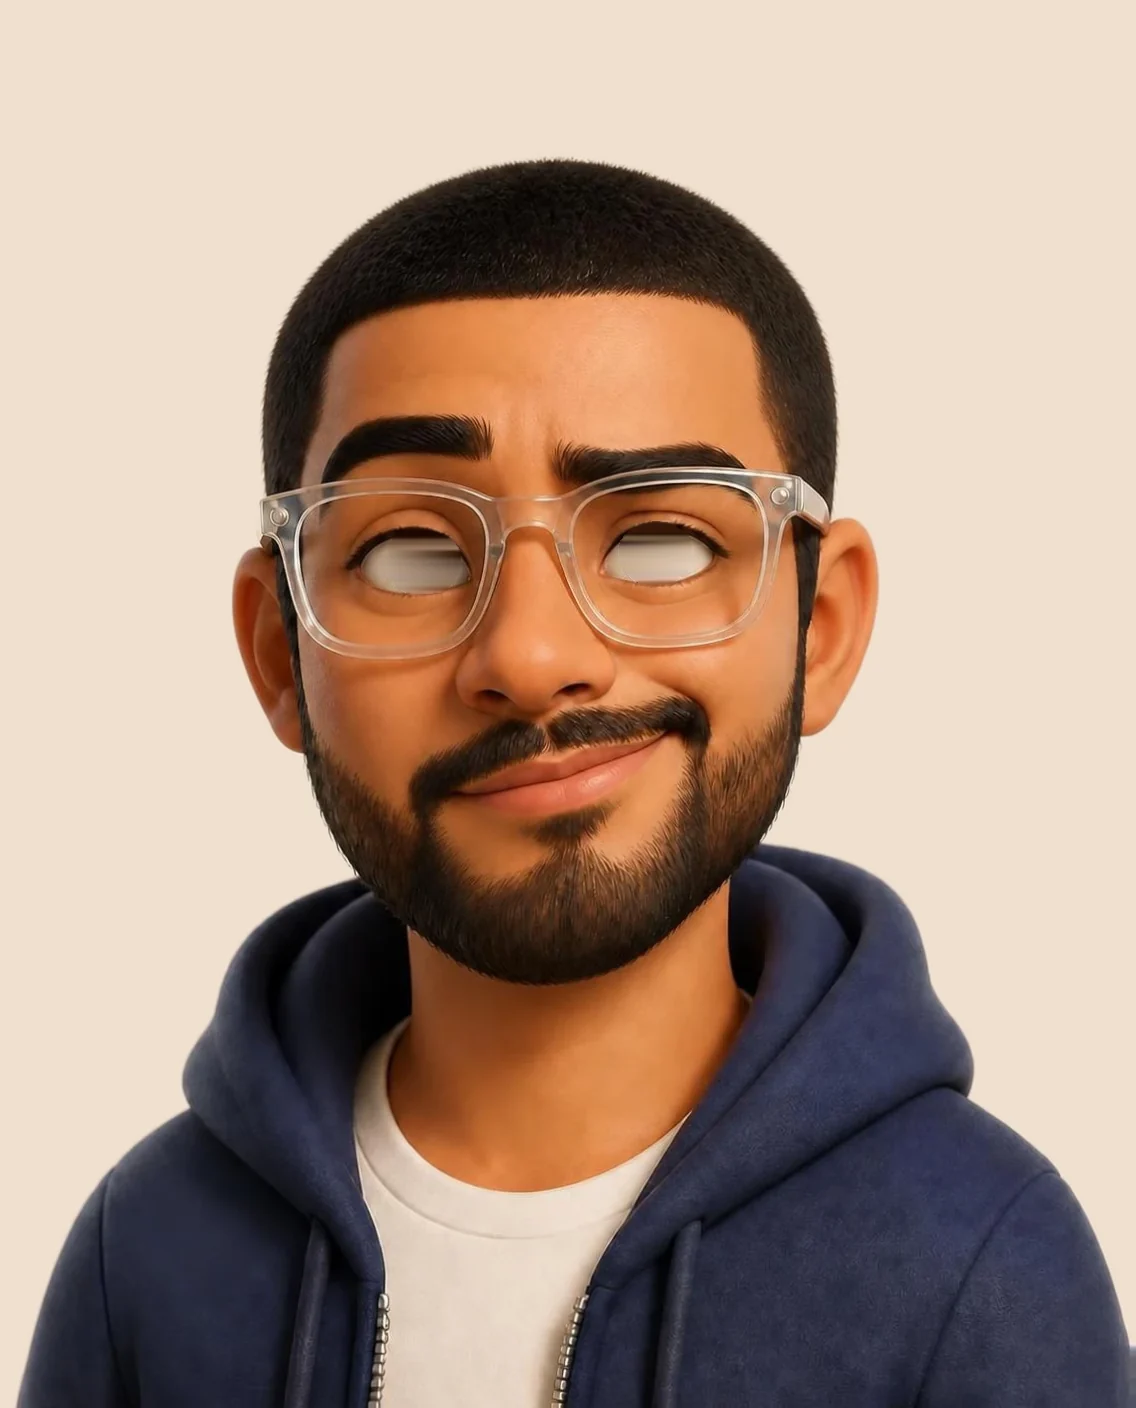
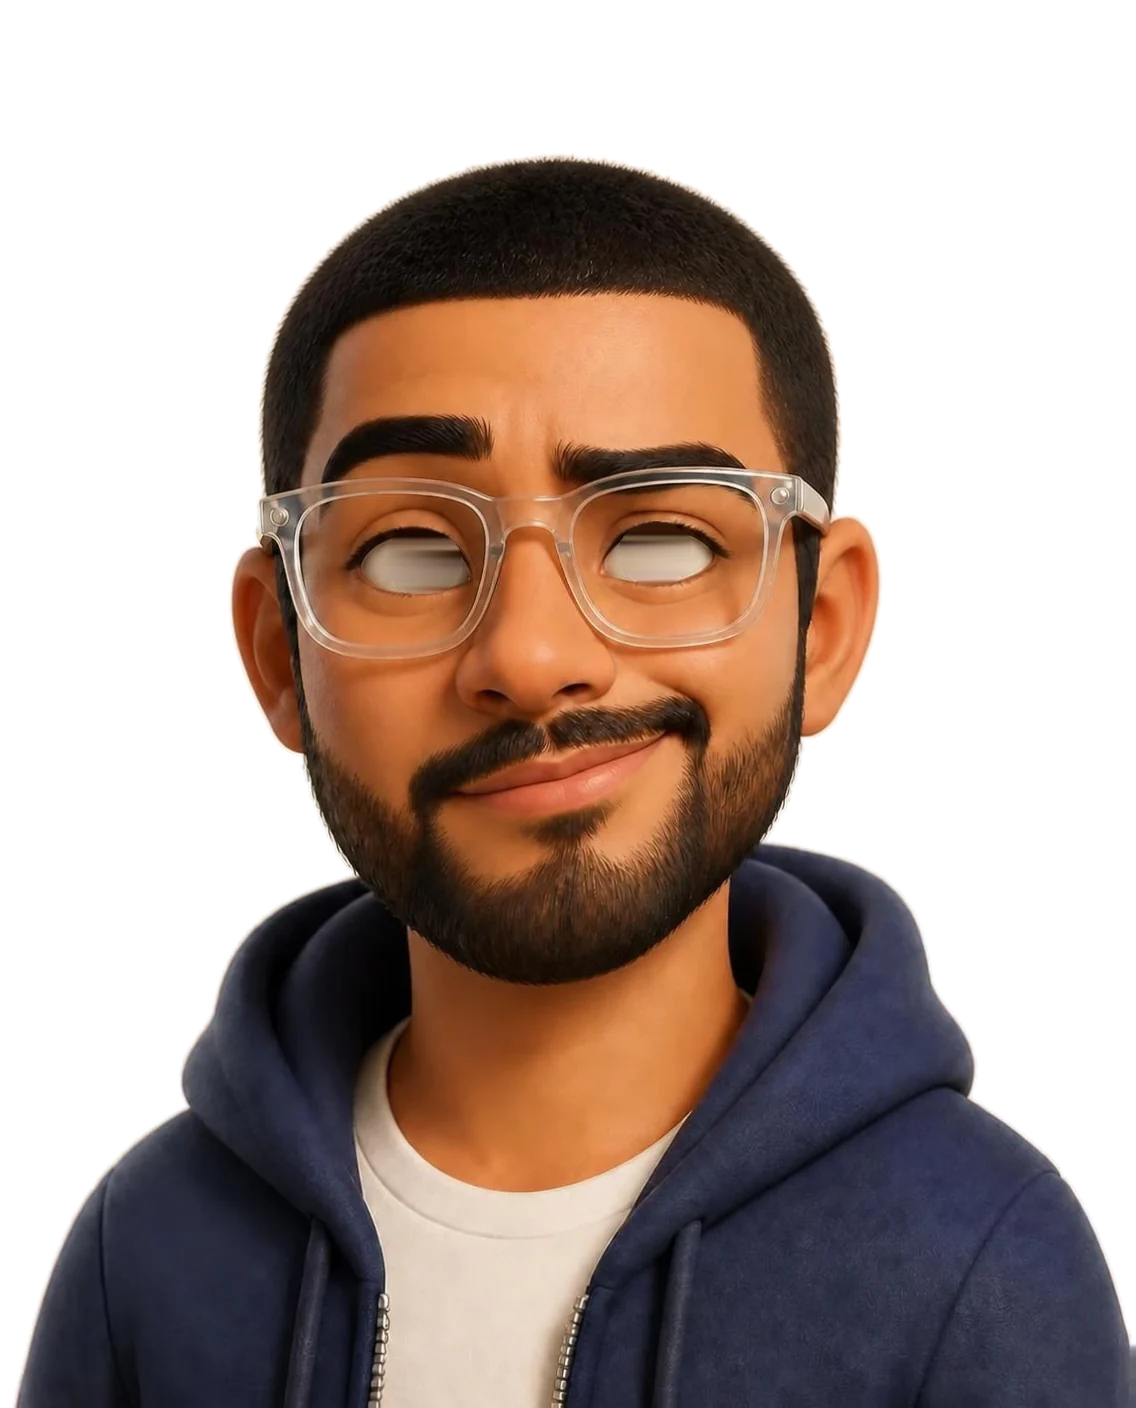
Opening: rings and props move with the scroll
- Protractor-style rings sit behind his head; they grow and turn as you scroll, with an inner dashed ring spinning the other way
- Props fly outward, grow and rotate as the camera pushes in, like flying through them
- Portrait frames now have a transparent background so the rings show behind him

Claude-Session: https://claude.ai/code/session_01H3DfCARNq534xVYqcsmDGa

diff --git a/index.html b/index.html
@@ -1679,6 +1679,23 @@ body.sc-on .buddy-wrap{opacity:0!important;visibility:hidden;transition:opacity 
 @media (min-width:761px) and (max-height:820px){.sp-tape{top:57%!important}.sp-blueprint{top:38%!important}.sp-hardhat{top:15%!important}}
 
 @media (min-width:761px) and (max-height:560px){.sp-tape{display:none}.sp-hardhat{top:30%!important}.sp-bridge{top:26%!important}.sp-cone{top:58%!important}}
+
+/* rings behind the head: they grow and turn as you scroll */
+.sc-orbit{position:absolute;left:0;top:0;width:100px;height:100px;margin:-50px 0 0 -50px;z-index:0;pointer-events:none;will-change:transform;opacity:0;transition:opacity .8s .3s}
+.scene.sc-ready .sc-orbit{opacity:1}
+.sc-me{z-index:1}
+.ob{position:absolute;inset:0;width:100%;height:100%;overflow:visible}
+.ob-c{fill:none;stroke:var(--ink);stroke-opacity:.16;stroke-width:2;stroke-dasharray:3 9}
+.ob-t path{stroke:var(--tension);stroke-opacity:.45;stroke-width:3;stroke-linecap:round}
+.ob-c2{fill:none;stroke:var(--tension);stroke-opacity:.18;stroke-width:1.5}
+.ob-d{fill:none;stroke:var(--ink);stroke-opacity:.12;stroke-width:2}
+.ob-n circle{fill:var(--comp);stroke:var(--ink);stroke-width:2.5}
+.ob-e{fill:rgba(255,255,255,.28);stroke:var(--comp);stroke-opacity:.7;stroke-width:3;stroke-dasharray:22 14}
+.ob-x{stroke:var(--ink);stroke-opacity:.25;stroke-width:3;stroke-linecap:round}
+.scene .ob-a{animation:ob-spin 90s linear infinite}
+.scene .ob-b{animation:ob-spin 60s linear infinite reverse}
+@keyframes ob-spin{to{transform:rotate(360deg)}}
+@media (prefers-reduced-motion:reduce){.scene .ob{animation:none}}
 </style>
 <script>
 /* Sky engine: the palette follows the visitor's local time of day. Runs before the page paints. */
@@ -1786,7 +1803,12 @@ apply(window.SKY.pickHour(pick)??now());
 <div class="pages" id="pages">
 <div class="page cur" data-page="home" id="pg-home">
 <section class="hero scene" id="intro">
-  <div class="sc-stage" aria-hidden="true"><canvas class="sc-me" id="scMe" width="1136" height="1408"></canvas>
+  <div class="sc-stage" aria-hidden="true"><div class="sc-orbit" id="scOrbit" aria-hidden="true">
+      <svg class="ob ob-a" viewBox="0 0 1000 1000"><circle class="ob-c" cx="500" cy="500" r="490"/><g class="ob-t"><path d="M970.0 500.0 L930.0 500.0"/><path d="M967.4 549.1 L949.5 547.2"/><path d="M959.7 597.7 L942.1 594.0"/><path d="M947.0 645.2 L929.9 639.7"/><path d="M929.4 691.2 L912.9 683.8"/><path d="M907.0 735.0 L872.4 715.0"/><path d="M880.2 776.3 L865.7 765.7"/><path d="M849.3 814.5 L835.9 802.4"/><path d="M814.5 849.3 L802.4 835.9"/><path d="M776.3 880.2 L765.7 865.7"/><path d="M735.0 907.0 L715.0 872.4"/><path d="M691.2 929.4 L683.8 912.9"/><path d="M645.2 947.0 L639.7 929.9"/><path d="M597.7 959.7 L594.0 942.1"/><path d="M549.1 967.4 L547.2 949.5"/><path d="M500.0 970.0 L500.0 930.0"/><path d="M450.9 967.4 L452.8 949.5"/><path d="M402.3 959.7 L406.0 942.1"/><path d="M354.8 947.0 L360.3 929.9"/><path d="M308.8 929.4 L316.2 912.9"/><path d="M265.0 907.0 L285.0 872.4"/><path d="M223.7 880.2 L234.3 865.7"/><path d="M185.5 849.3 L197.6 835.9"/><path d="M150.7 814.5 L164.1 802.4"/><path d="M119.8 776.3 L134.3 765.7"/><path d="M93.0 735.0 L127.6 715.0"/><path d="M70.6 691.2 L87.1 683.8"/><path d="M53.0 645.2 L70.1 639.7"/><path d="M40.3 597.7 L57.9 594.0"/><path d="M32.6 549.1 L50.5 547.2"/><path d="M30.0 500.0 L70.0 500.0"/><path d="M32.6 450.9 L50.5 452.8"/><path d="M40.3 402.3 L57.9 406.0"/><path d="M53.0 354.8 L70.1 360.3"/><path d="M70.6 308.8 L87.1 316.2"/><path d="M93.0 265.0 L127.6 285.0"/><path d="M119.8 223.7 L134.3 234.3"/><path d="M150.7 185.5 L164.1 197.6"/><path d="M185.5 150.7 L197.6 164.1"/><path d="M223.7 119.8 L234.3 134.3"/><path d="M265.0 93.0 L285.0 127.6"/><path d="M308.8 70.6 L316.2 87.1"/><path d="M354.8 53.0 L360.3 70.1"/><path d="M402.3 40.3 L406.0 57.9"/><path d="M450.9 32.6 L452.8 50.5"/><path d="M500.0 30.0 L500.0 70.0"/><path d="M549.1 32.6 L547.2 50.5"/><path d="M597.7 40.3 L594.0 57.9"/><path d="M645.2 53.0 L639.7 70.1"/><path d="M691.2 70.6 L683.8 87.1"/><path d="M735.0 93.0 L715.0 127.6"/><path d="M776.3 119.8 L765.7 134.3"/><path d="M814.5 150.7 L802.4 164.1"/><path d="M849.3 185.5 L835.9 197.6"/><path d="M880.2 223.7 L865.7 234.3"/><path d="M907.0 265.0 L872.4 285.0"/><path d="M929.4 308.8 L912.9 316.2"/><path d="M947.0 354.8 L929.9 360.3"/><path d="M959.7 402.3 L942.1 406.0"/><path d="M967.4 450.9 L949.5 452.8"/></g><circle class="ob-c2" cx="500" cy="500" r="410"/></svg>
+      <svg class="ob ob-b" viewBox="0 0 1000 1000"><circle class="ob-d" cx="500" cy="500" r="380"/><g class="ob-n"><circle cx="867.2" cy="597.7" r="9"/><circle cx="769.2" cy="768.2" r="5"/><circle cx="599.0" cy="866.9" r="5"/><circle cx="402.3" cy="867.2" r="9"/><circle cx="231.8" cy="769.2" r="5"/><circle cx="133.1" cy="599.0" r="5"/><circle cx="132.8" cy="402.3" r="9"/><circle cx="230.8" cy="231.8" r="5"/><circle cx="401.0" cy="133.1" r="5"/><circle cx="597.7" cy="132.8" r="9"/><circle cx="768.2" cy="230.8" r="5"/><circle cx="866.9" cy="401.0" r="5"/></g></svg>
+      <svg class="ob ob-c" viewBox="0 0 1000 1000"><circle class="ob-e" cx="500" cy="500" r="300"/><path class="ob-x" d="M500 170 V250 M500 750 V830 M170 500 H250 M750 500 H830"/></svg>
+    </div>
+    <canvas class="sc-me" id="scMe" width="1136" height="1408"></canvas>
     <div class="sc-props" aria-hidden="true"><span class="sp sp-hardhat sp-l sp-ph" style="--x:7%;--y:19%;--w:13vw;--mw:230px;--rot:-12deg;--dp:1.3;--i:0;--px:5%;--py:15%;--pw:25vw" data-dp="1.3"><img class="spi" src="img/prop_hardhat.webp" alt="" decoding="async"></span><span class="sp sp-blueprint sp-l" style="--x:2.5%;--y:45%;--w:15vw;--mw:260px;--rot:9deg;--dp:0.8;--i:1" data-dp="0.8"><img class="spi" src="img/prop_blueprint.webp" alt="" decoding="async"></span><span class="sp sp-tape sp-l sp-ph" style="--x:12%;--y:65%;--w:10.5vw;--mw:190px;--rot:-7deg;--dp:1.6;--i:2;--px:3%;--py:74%;--pw:22vw" data-dp="1.6"><img class="spi" src="img/prop_tape.webp" alt="" decoding="async"></span><span class="sp sp-bridge sp-r sp-ph" style="--x:4%;--y:17%;--w:17vw;--mw:300px;--rot:5deg;--dp:1.0;--i:3;--px:4%;--py:14%;--pw:32vw" data-dp="1.0"><img class="spi" src="img/prop_bridge.webp" alt="" decoding="async"></span><span class="sp sp-mug sp-r" style="--x:14%;--y:45%;--w:8.5vw;--mw:150px;--rot:-9deg;--dp:1.8;--i:4" data-dp="1.8"><img class="spi" src="img/prop_mug.webp" alt="" decoding="async"></span><span class="sp sp-cone sp-r sp-ph" style="--x:5%;--y:63%;--w:10vw;--mw:180px;--rot:11deg;--dp:1.2;--i:5;--px:4%;--py:72%;--pw:20vw" data-dp="1.2"><img class="spi" src="img/prop_cone.webp" alt="" decoding="async"></span></div></div>
   <div class="sc-fg">
     <div class="sc-open wrap">
@@ -4236,7 +4258,7 @@ ORDER.forEach(n=>{img[n]=load('img/face_'+n+'.webp');spr[n]=[0,1].map(k=>load('i
 const BOX=[0,1].map(k=>{let x0=1e9,y0=1e9,x1=-1e9,y1=-1e9;ORDER.forEach(n=>{const e=EY[n][k];e.poly.forEach(([x,y])=>{x0=Math.min(x0,x);y0=Math.min(y0,y);x1=Math.max(x1,x);y1=Math.max(y1,y)});y0=Math.min(y0,e.c[1]-e.R);y1=Math.max(y1,e.c[1]+e.R)});
   return [Math.floor(x0-6),Math.floor(y0-6),Math.ceil(x1-x0+12),Math.ceil(y1-y0+12)]});
 const red=matchMedia('(prefers-reduced-motion: reduce)'),fine=matchMedia('(pointer:fine)');
-let raf=0,px=null,py=null,gx=0,gy=0,lastMove=0,blinkT=performance.now()+2500,blink=0,pS=null,dirty=true,lastE='',lastG='',edge=null,props=null;
+let raf=0,px=null,py=null,gx=0,gy=0,lastMove=0,blinkT=performance.now()+2500,blink=0,pS=null,dirty=true,lastE='',lastG='',edge=null,props=null,orbitEl=null;
 const ease=t=>t<.5?2*t*t:1-Math.pow(-2*t+2,2)/2,cl=(v,a,b)=>Math.max(a,Math.min(b,v));
 function path(pts,close){ctx.beginPath();pts.forEach(([x,y],i)=>i?ctx.lineTo(x,y):ctx.moveTo(x,y));if(close)ctx.closePath()}
 function eyes(n,alpha,clipBox){EY[n].forEach((e,k)=>{const sp=spr[n][k];ctx.save();ctx.globalAlpha=alpha;path(e.poly,1);ctx.clip();
@@ -4247,11 +4269,10 @@ function eyes(n,alpha,clipBox){EY[n].forEach((e,k)=>{const sp=spr[n][k];ctx.save
     ctx.restore()})}
 function paint(i,f,full){const A=ORDER[i],B=f>0?ORDER[i+1]:null;if(!img[A].naturalWidth)return;
   const regions=full?[[0,0,1136,1408]]:BOX;
-  for(const [x,y,w,h] of regions){ctx.save();ctx.beginPath();ctx.rect(x,y,w,h);ctx.clip();
+  for(const [x,y,w,h] of regions){ctx.clearRect(x,y,w,h);ctx.save();ctx.beginPath();ctx.rect(x,y,w,h);ctx.clip();
     ctx.globalAlpha=1;ctx.drawImage(img[A],0,0);eyes(A,1);
     if(B&&img[B].naturalWidth){ctx.globalAlpha=f;ctx.drawImage(img[B],0,0);eyes(B,f)}ctx.restore()}
-  if(full&&edge){ctx.globalAlpha=1;const fade=(x0,y0,x1,y1,rgb,rx,ry,rw,rh)=>{const g=ctx.createLinearGradient(x0,y0,x1,y1);[[0,1],[.35,.82],[.65,.38],[1,0]].forEach(([o,a])=>g.addColorStop(o,`rgba(${rgb},${a})`));ctx.fillStyle=g;ctx.fillRect(rx,ry,rw,rh)};
-    fade(0,0,210,0,edge.l,0,0,210,1408);fade(1136,0,926,0,edge.r,926,0,210,1408);fade(0,0,0,95,edge.t,0,0,1136,95)}}
+}
 function exprAt(p){if(p<.3)return[0,0];if(p<.38)return[0,ease((p-.3)/.08)];if(p<.64)return[1,0];if(p<.72)return[1,ease((p-.64)/.08)];return[2,0]}
 function frame(now){raf=0;if(!sec.offsetParent)return;
   const r=sec.getBoundingClientRect(),vh=innerHeight,vw=innerWidth,span=Math.max(1,r.height-vh);
@@ -4270,9 +4291,14 @@ function frame(now){raf=0;if(!sec.offsetParent)return;
   if(Math.abs(tx-gx)>.03||Math.abs(ty-gy)>.03)busy=true;else{gx=tx;gy=ty}
   if(!red.matches){const bt=now-blinkT;if(bt>0){blink=bt<90?bt/90:bt<180?1-(bt-90)/90:0;busy=true;if(bt>=180){blink=0;blinkT=now+2600+Math.random()*3400}}}
   if(!red.matches){const op=cl(1-pT*7,0,1);if(openEl&&openEl.style.opacity!==String(op))openEl.style.opacity=op}
+  {const ob=orbitEl||(orbitEl=document.getElementById('scOrbit'));if(ob){const cr=cv.getBoundingClientRect(),sr=cv.offsetParent.getBoundingClientRect(),ox=cr.left-sr.left+cr.width*.475,oy=cr.top-sr.top+cr.height*.36,dia=cr.width*(1.02+p*.25)/100;
+    ob.style.transform=`translate3d(${ox.toFixed(1)}px,${oy.toFixed(1)}px,0) rotate(${(p*150).toFixed(2)}deg) scale(${dia.toFixed(3)})`;
+    const parts=ob.children;if(parts[2])parts[2].style.transform=`rotate(${(-p*260).toFixed(1)}deg) scale(${(1+p*.35).toFixed(3)})`}}
   if(!props)props=[...sec.querySelectorAll('.sp')].map(el=>({el,d:+el.dataset.dp||1,x:0,y:0}));
   {const mx=px===null?0:(px/vw-.5),my=py===null?0:(py/vh-.5);for(const q of props){const txp=-mx*q.d*34,typ=-my*q.d*22-(vw>760?p*(30+q.d*8):0);q.x+=(txp-q.x)*.12;q.y+=(typ-q.y)*.12;
-    if(Math.abs(txp-q.x)>.2||Math.abs(typ-q.y)>.2)busy=true;q.el.style.transform=`translate3d(${q.x.toFixed(1)}px,${q.y.toFixed(1)}px,0) scale(${(1+p*.07).toFixed(3)})`}}
+    if(Math.abs(txp-q.x)>.2||Math.abs(typ-q.y)>.2)busy=true;if(q.cx===undefined){const rr=q.el.getBoundingClientRect(),sr2=sec.getBoundingClientRect();q.cx=(rr.left+rr.width/2)/vw-.5;q.cy=(rr.top-Math.max(0,sr2.top)+rr.height/2)/vh-.5;q.spin=(q.d>1.2?1:-1)*(40+q.d*45)*(q.cx<0?-1:1)}
+    const out=vw<=760?0:p*p*(60+q.d*90),len=Math.hypot(q.cx,q.cy)||1,ox2=q.cx/len*out,oy2=q.cy/len*out;
+    q.el.style.transform=`translate3d(${(q.x+ox2).toFixed(1)}px,${(q.y+oy2).toFixed(1)}px,0) rotate(${(p*q.spin).toFixed(1)}deg) scale(${(1+p*(vw<=760?.12:.2+q.d*.2)).toFixed(3)})`}}
   const [i,f]=exprAt(p),mood=ORDER[f>.5?i+1:i];if(sec.dataset.mood!==mood)sec.dataset.mood=mood;sec.classList.toggle('sc-top',p<.08);
   document.body.classList.toggle('sc-on',r.bottom>vh*.35&&r.top<vh*.5);
   const eKey=i+':'+f.toFixed(3),gKey=gx.toFixed(2)+','+gy.toFixed(2)+','+blink.toFixed(2);
@@ -4285,7 +4311,7 @@ img.smile.addEventListener('load',()=>{try{const c=document.createElement('canva
   x.drawImage(img.smile,0,0,8,1000,0,0,1,64);x.drawImage(img.smile,1128,0,8,1000,1,0,1,64);x.drawImage(img.smile,0,0,1136,8,2,0,1,64);
   const d=x.getImageData(0,0,3,64).data,avg=col=>{let R=0,G=0,B=0;for(let y=0;y<64;y++){const k=(y*3+col)*4;R+=d[k];G+=d[k+1];B+=d[k+2]}return `${Math.round(R/64)},${Math.round(G/64)},${Math.round(B/64)}`};
   edge={l:avg(0),r:avg(1),t:avg(2)};sec.style.setProperty('--stage',`rgb(${edge.t})`);{const m=[edge.l,edge.r,edge.t].map(v=>v.split(',').map(Number)),avg=[0,1,2].map(i=>Math.round((m[0][i]+m[1][i]+m[2][i])/3)).join(',');edge.l=edge.r=edge.t=avg;sec.style.setProperty('--stage',`rgb(${avg})`);sec.style.setProperty('--stage-bg',`rgb(${avg})`)}dirty=true;go()}catch(_){}});
-addEventListener('scroll',go,{passive:true});addEventListener('resize',()=>{dirty=true;go()});addEventListener('hashchange',()=>setTimeout(go,80));
+addEventListener('scroll',go,{passive:true});addEventListener('resize',()=>{dirty=true;if(props)props.forEach(q=>{q.cx=undefined});go()});addEventListener('hashchange',()=>setTimeout(go,80));
 addEventListener('pointermove',e=>{px=e.clientX;py=e.clientY;lastMove=performance.now();go()},{passive:true});
 addEventListener('pointerdown',e=>{px=e.clientX;py=e.clientY;lastMove=performance.now();go()},{passive:true});
 document.addEventListener('visibilitychange',go);go()})();
